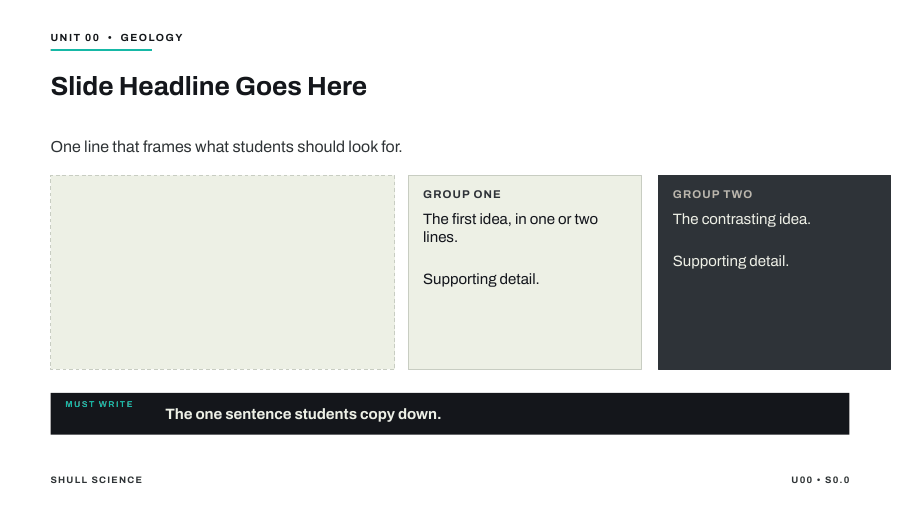
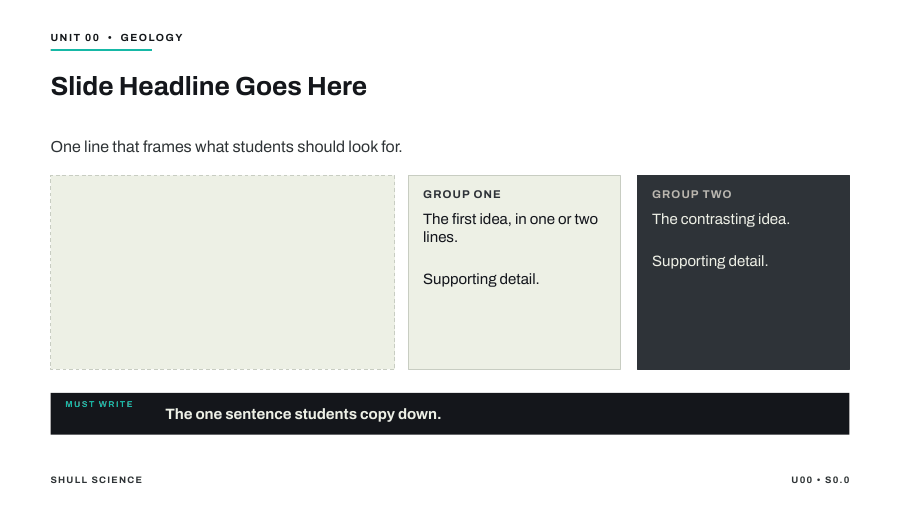
SHULL-CHG-0066: slide template — neutral PROBLEM label, Grouped Concept cards inside the margin, unused image slots, nuclear-notation figure rebuilt
Item 1: the PROBLEM label on both problem layouts uses the neutral dark-card
label colour; the course accent measured 4.48:1 for Chemistry.
Item 2: the 03 cards end at the content edge. The audit now fails text that
runs into a side margin.
Item 3: a deck spec may list a slide's unusedImages; the well and its frame
are painted over in the slide ground and nothing re-flows. The audit no longer
measures a layout placeholder's prompt text, which never shows on a slide.
Item 4: the figure is rebuilt from the current tokens.

Claude-Session: https://claude.ai/code/session_01HWTQzGWMsDUwkkhXCMzzAD

Changed region(s): [[0.6844, 0.3254, 0.9022, 0.7396], [0.9333, 0.3254, 0.9956, 0.7396]]

diff --git a/templates/slide/build.js b/templates/slide/build.js
@@ -57,6 +57,9 @@ const LABEL_ON_LIGHT_CARD = C.mutedOnLight;  // graphite on parchment,   11.05:1
 const LABEL_ON_DARK_CARD  = C.mutedOnDark;   // mutedOnDark on graphite,  6.34:1
 
 const CONTENT_W = W - M.l - M.r;
+const DIVIDER_CARD = { x: 0.62, y: 1.62, w: 4.05, h: 4.02 };
+const GROUP_GAP = 0.25;
+const GROUP_CARD_W = (W - M.r - 6.05 - GROUP_GAP) / 2;
 
 const pres = new pptxgen();
 
@@ -68,6 +71,12 @@ const pres = new pptxgen();
  * eyebrow. Nothing failed; the text simply arrived in the wrong font. */
 const PLACEHOLDERS = {};
 const SLOTS = {};   // name -> {x, y, w, h}, so a deck can fill a slot without knowing where it is
+/* name -> {x, y, w, h, color}: what a deck paints over to leave an image slot unused
+ * (SHULL-CHG-0066 item 3). A slide cannot remove a shape its master drew, so an unused
+ * slot is covered with the slide's own ground. The region is the slot, or the frame
+ * around it where the master draws one (def.wells). The layout does not re-flow. */
+const WELLS = {};
+const PIC_SLOTS = {};
 const defineMaster = (def) => {
   const phs = (def.objects || [])
     .filter(o => o.placeholder && o.placeholder.options && o.placeholder.options.name)
@@ -75,6 +84,19 @@ const defineMaster = (def) => {
   PLACEHOLDERS[def.title] = phs.map(o => o.name);
   SLOTS[def.title] = {};
   for (const o of phs) SLOTS[def.title][o.name] = { x: o.x, y: o.y, w: o.w, h: o.h };
+  const frames = def.wells || {};
+  const redraw = def.redraw || {};
+  delete def.wells;
+  delete def.redraw;
+  WELLS[def.title] = {};
+  PIC_SLOTS[def.title] = phs.filter(o => o.type === "pic").map(o => o.name);
+  for (const o of phs.filter(o => o.type === "pic")) {
+    // One rect, or several where a single cover would also hide something the master
+    // draws on top of the well (04's floating card).
+    const rs = [].concat(frames[o.name] || o);
+    WELLS[def.title][o.name] = { color: def.background.color, redraw: redraw[o.name] || [],
+                                 rects: rs.map(r => ({ x: r.x, y: r.y, w: r.w, h: r.h })) };
+  }
   pres.defineSlideMaster(def);
 };
 
@@ -238,8 +260,12 @@ defineMaster({
   objects: [
     bgLight(), ...eyebrow(false), headline(false), subhead(false),
     ...imageSlot("concept", M.l, bodyTopY - 0.02, 5.10, 2.87, "CONCEPT IMAGE  •  16:9"),
-    ...card("c1", 6.05, 2.60, 3.45, 2.87, "GROUP ONE", "The first idea, in one or two lines."),
-    ...card("c2", 9.75, 2.60, 3.45, 2.87, "GROUP TWO", "The contrasting idea.", { dark: true }),
+    // Two equal cards from the image's right gutter to the content edge, the same edge
+    // the must-write bar stops at. SHULL-CHG-0066 item 2: the right card used to run
+    // 0.62 in into the margin.
+    ...card("c1", 6.05, 2.60, GROUP_CARD_W, 2.87, "GROUP ONE", "The first idea, in one or two lines."),
+    ...card("c2", 6.05 + GROUP_CARD_W + GROUP_GAP, 2.60, GROUP_CARD_W, 2.87, "GROUP TWO",
+            "The contrasting idea.", { dark: true }),
     ...mustWrite(5.82), ...footer(false),
   ],
 });
@@ -247,12 +273,23 @@ defineMaster({
 /* 04 — SECTION DIVIDER (dark, full-bleed image, floating card) */
 defineMaster({
   title: "04_DIVIDER", background: { color: C.darkGround },
+  // The floating card sits across the image's left edge, so the cover stops at the
+  // card's right edge and leaves a strip above and below it.
+  wells: { divider: [
+    { x: 3.20, y: 0, w: W - 3.20, h: DIVIDER_CARD.y },
+    { x: 3.20, y: DIVIDER_CARD.y + DIVIDER_CARD.h, w: W - 3.20, h: H - DIVIDER_CARD.y - DIVIDER_CARD.h },
+    { x: DIVIDER_CARD.x + DIVIDER_CARD.w, y: DIVIDER_CARD.y,
+      w: W - DIVIDER_CARD.x - DIVIDER_CARD.w, h: DIVIDER_CARD.h },
+  ] },
+  // ...and the card's outline is drawn again on top, because a cover that meets the
+  // outline edge-on eats half its width.
+  redraw: { divider: [{ ...DIVIDER_CARD, line: { color: C.accent, width: 1.25 } }] },
   objects: [
     bgDark(),
     ...imageSlot("divider", 3.20, 0, 10.13, H, "FULL-BLEED CONCEPT IMAGE  •  one image, no decoration", true),
     { rect: { x: 0, y: 0, w: 4.30, h: H, fill: { color: C.darkGround } } },
     rail(),
-    { rect: { x: 0.62, y: 1.62, w: 4.05, h: 4.02, fill: { color: C.darkGround },
+    { rect: { ...DIVIDER_CARD, fill: { color: C.darkGround },
               line: { color: C.accent, width: 1.25 } } },
     { placeholder: {
         options: { name: "eyebrow", type: "body", x: 0.92, y: 1.92, w: 3.45, h: 0.50,
@@ -295,6 +332,7 @@ const step = (n, x) => ([
 
 defineMaster({
   title: "05_PROCESS_TIMELINE", background: { color: C.lightGround },
+  wells: { band: { x: M.l, y: bodyTopY, w: CONTENT_W, h: 2.20 } },
   objects: [
     bgLight(), ...eyebrow(false), headline(false), subhead(false),
     { rect: { x: M.l, y: bodyTopY, w: CONTENT_W, h: 2.20, fill: { color: C.darkGround } } },
@@ -307,6 +345,7 @@ defineMaster({
 /* 06 — CONCEPT + IMAGE PANEL (dark — the one deliberate dark content slide) */
 defineMaster({
   title: "06_CONCEPT_IMAGE", background: { color: C.darkGround },
+  wells: { concept: { x: 6.75, y: 0.95, w: 5.85, h: 4.55 } },
   objects: [
     bgDark(), rail(),
     { rect: { x: 6.75, y: 0.95, w: 5.85, h: 4.55, fill: { color: C.accent } } },
@@ -337,6 +376,7 @@ defineMaster({
 /* 07 — COMPARISON CARDS (light, 3 parallel cards) */
 defineMaster({
   title: "07_COMPARISON_CARDS", background: { color: C.lightGround },
+  wells: { aside: { x: 9.20, y: 1.05, w: 3.38, h: 1.90 } },
   objects: [
     bgLight(), ...eyebrow(false),
     headline(false, headlineY, 8.05), subhead(false, subheadY, 8.05),
@@ -375,6 +415,7 @@ defineMaster({
 /* 09 — EXAMPLE PROBLEM (light — problem, givens, EMPTY work area) */
 defineMaster({
   title: "09_EXAMPLE_PROBLEM", background: { color: C.lightGround },
+  wells: { aside: { x: 9.75, y: 1.05, w: 2.83, h: 1.45 } },
   objects: [
     bgLight(), ...eyebrow(false),
     headline(false, headlineY, 8.60), subhead(false, subheadY, 8.60),
@@ -386,7 +427,7 @@ defineMaster({
     { rect: { x: M.l, y: bodyTopY, w: 5.90, h: 1.15, fill: { color: C.cardDark } } },
     { text: { text: "PROBLEM",
         options: { x: M.l + padX, y: 2.76, w: 2.0, h: 0.24, fontFace: F.body, fontSize: 9, bold: true,
-                   charSpacing: 1.4, color: C.accent, margin: 0, isTextBox: true } } },
+                   charSpacing: 1.4, color: LABEL_ON_DARK_CARD, margin: 0, isTextBox: true } } },
     { placeholder: {
         options: { name: "problem", type: "body", x: M.l + padX, y: 3.06, w: 5.46, h: 0.60,
                    fontFace: F.body, fontSize: T.body, color: C.textOnDark, margin: 0, isTextBox: true },
@@ -409,6 +450,7 @@ defineMaster({
 /* 10 — WORKED SOLUTION (light — the 09 pair. Every example ships with its solution.) */
 defineMaster({
   title: "10_WORKED_SOLUTION", background: { color: C.lightGround },
+  wells: { data: { x: M.l, y: bodyTopY, w: 4.55, h: 2.80 } },
   objects: [
     bgLight(), ...eyebrow(false), headline(false), subhead(false),
     { rect: { x: M.l, y: bodyTopY, w: 4.55, h: 2.80, fill: { color: C.accent } } },
@@ -430,6 +472,7 @@ defineMaster({
 /* 11 — GIVENS / EQUATION / ANSWER (light — any course) */
 defineMaster({
   title: "11_GIVENS_EQUATION_ANSWER", background: { color: C.lightGround },
+  wells: { setup: { x: M.l, y: bodyTopY, w: 5.10, h: 2.87 } },
   objects: [
     bgLight(), ...eyebrow(false), headline(false), subhead(false),
     { rect: { x: M.l, y: bodyTopY, w: 5.10, h: 2.87, fill: { color: C.accent } } },
@@ -437,7 +480,7 @@ defineMaster({
     { rect: { x: 6.10, y: bodyTopY, w: 6.48, h: 1.05, fill: { color: C.cardDark } } },
     { text: { text: "PROBLEM",
         options: { x: 6.32, y: 2.74, w: 2.0, h: 0.22, fontFace: F.body, fontSize: 9, bold: true,
-                   charSpacing: 1.4, color: C.accent, margin: 0, isTextBox: true } } },
+                   charSpacing: 1.4, color: LABEL_ON_DARK_CARD, margin: 0, isTextBox: true } } },
     { placeholder: {
         options: { name: "problem", type: "body", x: 6.32, y: 3.00, w: 6.04, h: 0.55,
                    fontFace: F.body, fontSize: T.body, color: C.textOnDark, margin: 0, isTextBox: true },
@@ -505,6 +548,8 @@ defineMaster({
 module.exports = pres;
 module.exports.PLACEHOLDERS = PLACEHOLDERS;
 module.exports.SLOTS = SLOTS;
+module.exports.WELLS = WELLS;
+module.exports.PIC_SLOTS = PIC_SLOTS;
 
 /* ================= DEMO DECK ================= */
 /* One slide per layout, so a build can be looked at rather than trusted. The content

diff --git a/templates/slide/build_deck.js b/templates/slide/build_deck.js
@@ -101,6 +101,28 @@ for (const slide of spec.slides) {
      at an arbitrary x/y would be a deck that can invent geometry, which is the one thing
      this split exists to prevent. The image is fitted inside the slot and centred, so a
      wrong aspect ratio letterboxes instead of stretching. */
+  /* An image slot the slide does not use (SHULL-CHG-0066 item 3). The master draws the
+     well, and a slide cannot delete a master's shape, so the well is painted over in the
+     slide's own ground. Nothing moves: the space stays empty. Added before any text so
+     it sits under everything else on the slide. */
+  for (const slotName of slide.unusedImages || []) {
+    const well = (pres.WELLS[slide.master] || {})[slotName];
+    if (!well) { problems.push(`slide ${n} (${slide.master}): no image slot "${slotName}" to leave unused`); continue; }
+    if (slide.images && slotName in slide.images) {
+      problems.push(`slide ${n}: image slot "${slotName}" is both filled and marked unused`); continue;
+    }
+    const pad = 0.03;   // the well's outline straddles its edge
+    for (const r of well.rects) {
+      s.addShape("rect", { x: Math.max(0, r.x - pad), y: Math.max(0, r.y - pad),
+                           w: r.w + 2 * pad, h: r.h + 2 * pad,
+                           fill: { color: well.color } });
+    }
+    for (const r of well.redraw) {
+      s.addShape("rect", { x: r.x, y: r.y, w: r.w, h: r.h, line: r.line });
+    }
+    delete fields[slotName];
+  }
+
   for (const [slotName, imgRel] of Object.entries(slide.images || {})) {
     const slot = (pres.SLOTS[slide.master] || {})[slotName];
     if (!slot) { problems.push(`slide ${n} (${slide.master}): no slot "${slotName}"`); continue; }

diff --git a/scripts/audit_slide_geometry.py b/scripts/audit_slide_geometry.py
@@ -172,10 +172,18 @@ def ground_behind(box, fills):
     return found
 
 
-def text_runs(shapes):
-    """(shape, run) for every non-empty run, with the shape for its geometry."""
+def text_runs(shapes, layout=False):
+    """(shape, run) for every non-empty run, with the shape for its geometry.
+
+    On a layout, a placeholder's text is a prompt ("CONCEPT IMAGE  •  16:9"). It shows
+    in the editor and never on the slide, so it is not measured: a slide that uses the
+    placeholder carries its own copy, and that copy is. Fixed text a layout draws
+    (a "MUST WRITE" label) is not a placeholder and still is.
+    """
     for sh in shapes:
         if not sh.has_text_frame or not sh.text_frame.text.strip():
+            continue
+        if layout and sh.is_placeholder:
             continue
         if sh.left is None or sh.width is None:
             continue
@@ -210,8 +218,8 @@ def main():
         # Contrast: every run, against the fill actually behind it. Layout fills sit
         # under slide fills, so they are stacked in that order.
         fills = solid_fills(slide.slide_layout.shapes) + solid_fills(slide.shapes)
-        for shapes in (slide.slide_layout.shapes, slide.shapes):
-            for sh, run in text_runs(shapes):
+        for shapes, is_layout in ((slide.slide_layout.shapes, True), (slide.shapes, False)):
+            for sh, run in text_runs(shapes, layout=is_layout):
                 fg, bg = run_color(run), ground_behind(rect(sh), fills)
                 if not fg or not bg:
                     continue
@@ -228,6 +236,13 @@ def main():
         for b in bs:
             if b[2] < -0.01 or b[3] < -0.01 or b[4] > W + 0.01 or b[5] > H + 0.01:
                 errors.append(f"slide {i}: {b[0]!r} ({b[1]!r}) runs off the slide")
+            # Text stops at the content edge. A card that runs into the side margin takes
+            # its text with it, and overhangs the must-write bar and the footer code
+            # (SHULL-CHG-0066 item 2). Dark structural layouts are measured the same way.
+            elif b[2] < M["left"] - 0.02 or b[4] > W - M["right"] + 0.02:
+                errors.append(f"slide {i}: {b[0]!r} ({b[1]!r}) runs into the side margin "
+                              f"(text spans {b[2]:.2f} to {b[4]:.2f} in; content is "
+                              f"{M['left']:.2f} to {W - M['right']:.2f} in)")
 
         errors.extend(overflow_check(slide.shapes, fills, f"slide {i}"))
         # Student-facing type floor. Slide System v2 permits 10-12pt for eyebrows, card

diff --git a/scripts/image_prompts.py b/scripts/image_prompts.py
@@ -56,6 +56,8 @@ def main():
                 continue
             if name in filled:
                 continue
+            if name in (sl.get("unusedImages") or []):
+                continue   # deliberately left empty; SHULL-CHG-0066 item 3
             f = sl.get("fields", {})
             subject = f.get("headline", "").replace("\n", " ")
             frame = f.get("subhead", "").replace("\n", " ")

diff --git a/templates/slide/README.md b/templates/slide/README.md
@@ -62,6 +62,11 @@ The masters carry **empty image regions**, not photographs. The legacy masters e
 full-resolution PNGs, which is why the template was 20 MB and why every deck built from layout 01
 arrived carrying a picture of an atom. Same geometry, no payload — 402 KB.
 
+**A slot a slide does not use** is listed in that slide's `"unusedImages"` in the deck spec
+(for example `"unusedImages": ["aside"]`). The well and its frame are not drawn and the space stays
+empty; nothing re-flows. A slot is filled, marked unused, or still outstanding — `image_prompts.py`
+lists only the outstanding ones. SHULL-CHG-0066.
+
 Images come from the loop in `SHULL_Slide_System_v2.md` §5: Claude supplies a prompt per slide, the
 user generates and saves it, Claude places it. Anything a student *reads* as science — a diagram
 with a number, a label, or a formula — is built, never generated.
@@ -74,8 +79,8 @@ soffice --headless --convert-to pdf deck.pptx && pdffonts deck.pdf
 ```
 
 The audit reads the built `.pptx`, so it checks what shipped rather than what the source intended.
-It catches overlapping text, text off the slide, content below the type floor, and any text/ground
-pair under the contrast target — resolving each run against the fill actually behind it.
+It catches overlapping text, text off the slide, text running into a side margin, content below
+the type floor, and any text/ground pair under the contrast target — resolving each run against the fill actually behind it.
 
 `pdffonts` must show **Archivo, embedded, TrueType** and nothing else. Liberation or DejaVu in that
 list means the font stack silently substituted, which is the defect behind SHULL-CHG-0006: every QA

diff --git a/.claude/skills/build-presentation/SKILL.md b/.claude/skills/build-presentation/SKILL.md
@@ -73,6 +73,9 @@ Geology specimen photographs for identification are **shot, never generated**.
 stop and ask Matt. Verify the SMILES with `verify-content` first; the `--name` label is not checked
 by the script. SHULL-CHG-0042.
 
+**A slot the slide will not use** goes in that slide's `"unusedImages"` in the deck spec, so no
+empty well prints. How: `templates/slide/README.md`, Images.
+
 ## Animation
 
 Subtle, purposeful, professional. **Never animate because the software permits it.**
